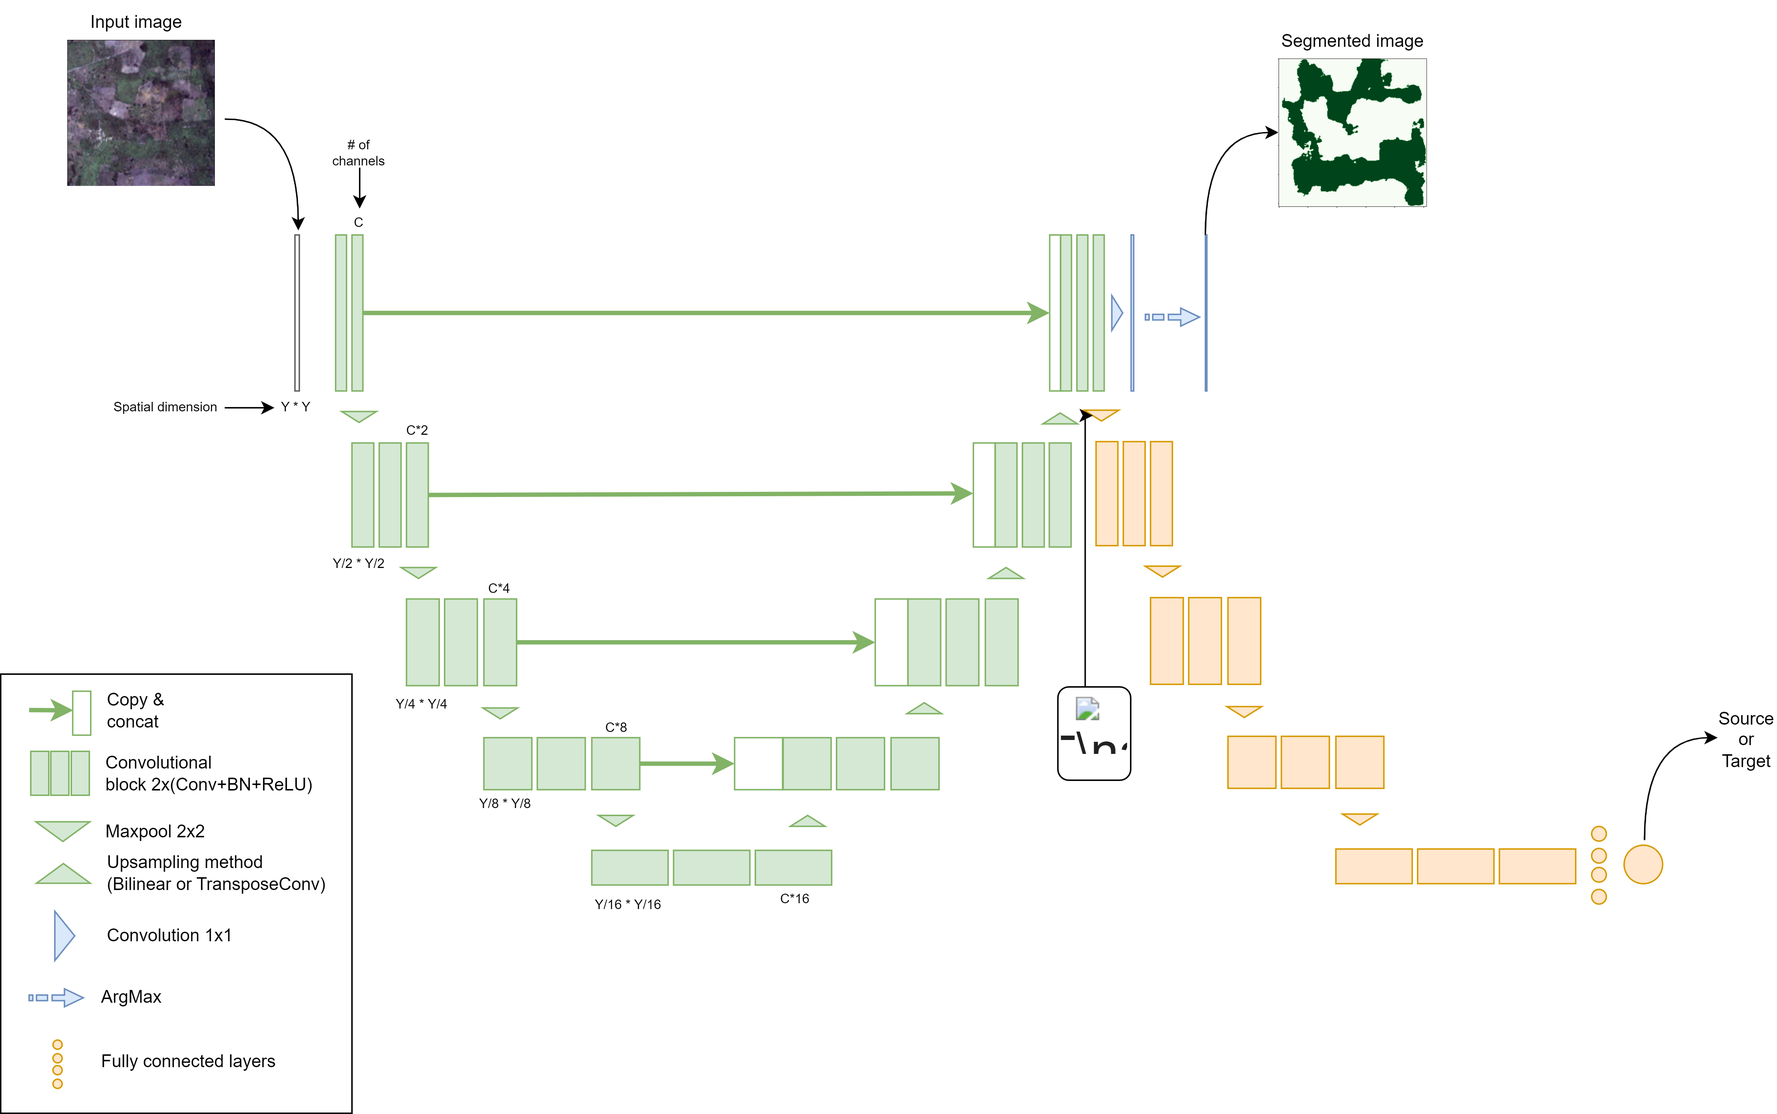
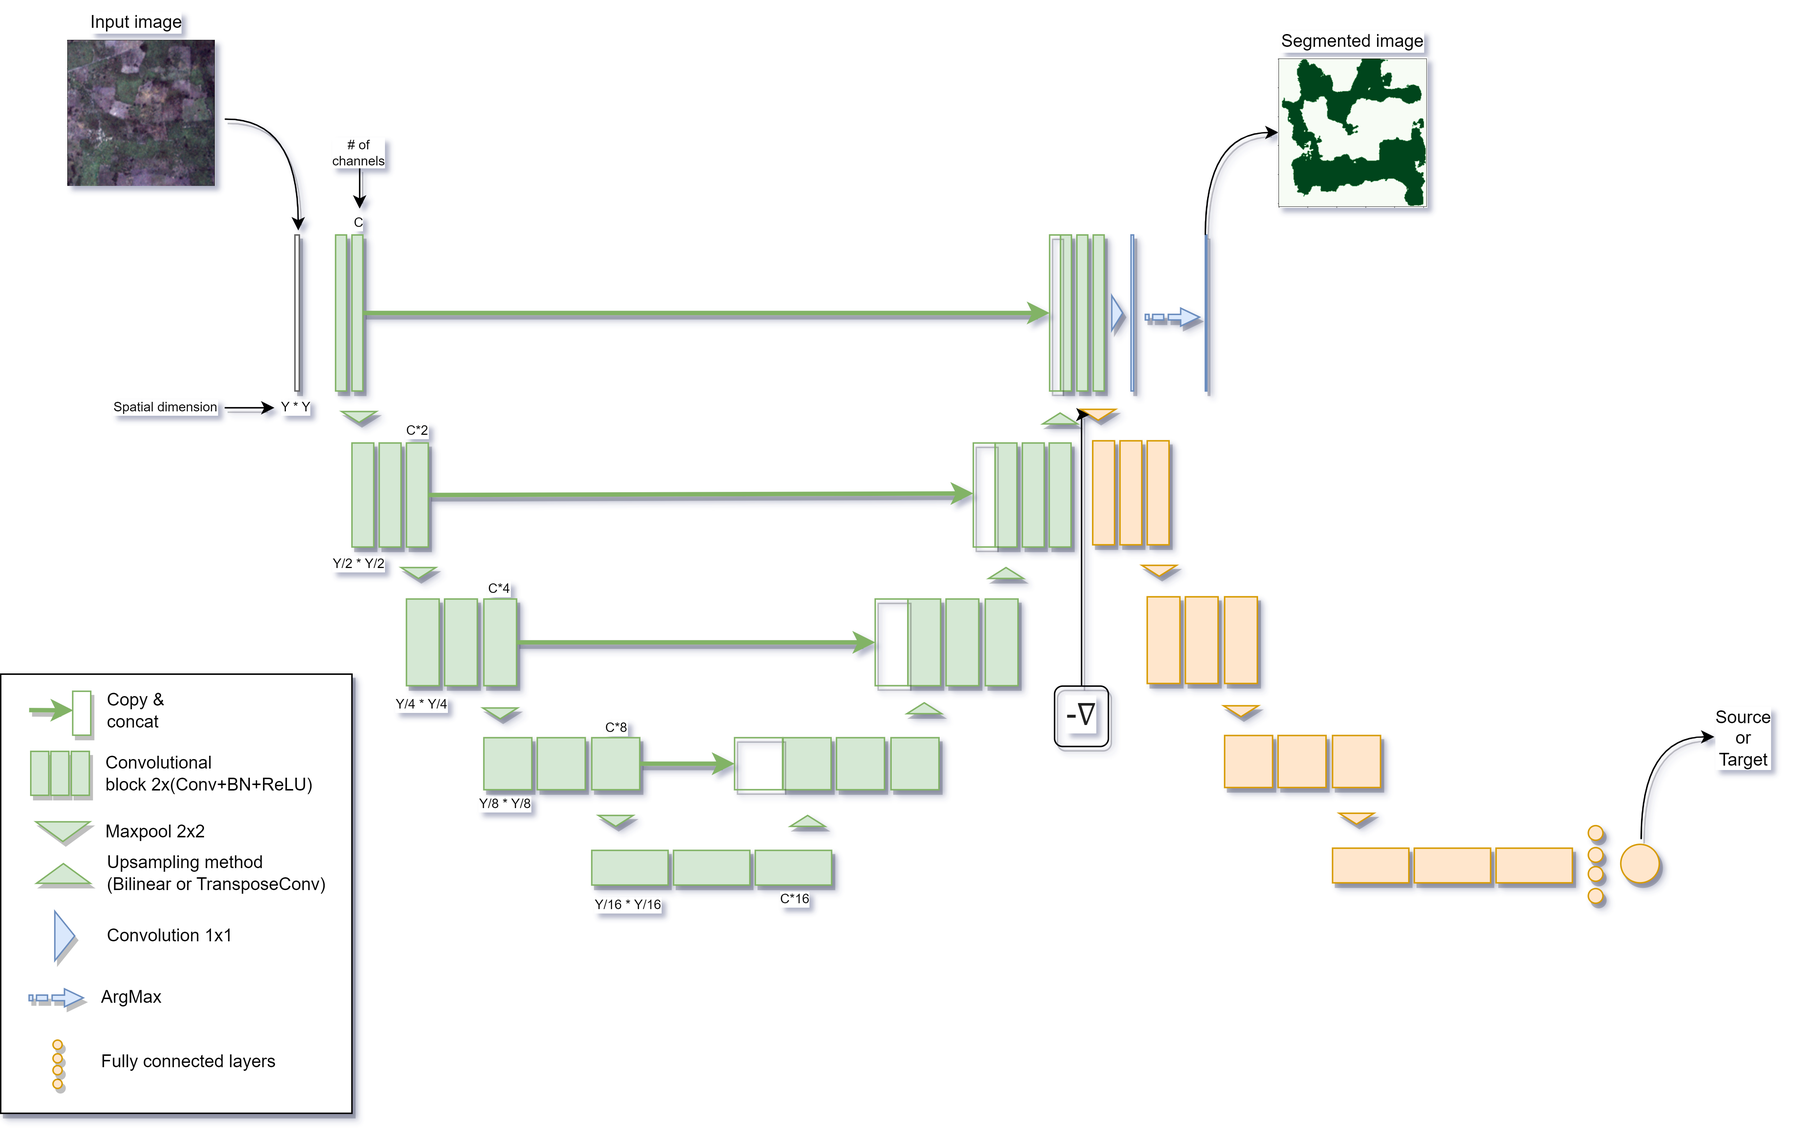
Updated docs

diff --git a/docs/Models/U_Net.md b/docs/Models/U_Net.md
@@ -10,7 +10,8 @@ And secondly build the models used for segmentation [U-Net](#unet) and domain ad
 
 ## Major blocks
 
-==ADD IMAGE OF UNET and UNET DANN dividing blocks==
+![Major blocks](/img/MajorBlocks.png)
+
 ### FE
 
 Class containing the layers considered for the extraction of features from the 2D images. 
@@ -24,9 +25,9 @@ The division of the U-Net was inspired by the implementation done by [brion et a
 - **self.n_channels:** (int) Number of channels \[bands\] on the images that will enter the network.
 - **self.starter:** (int) Number of feature maps obtained from the first double convolution performed. The number of feature maps obtained for every double convolution will be then calculated multiplying this value by $2ˆn$, where $n$ is the level in the U_net, starting from 0 in the upmost layer and 2 in the lowest layer.
 - **self.up_layer:** (int : \[0-4\]) Number indicating the layer in which the network is divided into Feature Extractor and Classifier.
-- **self.bilinear:** (Boolean) Boolean indicating the method for upsampling in the expanding path. ==Default== is True.
-- **self.attention:** (Boolean) Boolean to indicate if attention gates will be added on the upsampling step. ==Default== is False.
-- **self.resunet:** (Boolean) Boolean used to indicate if the double convolution will have a residual connection or not.==Default== is False.
+- **self.bilinear:** (Boolean) Boolean indicating the method for upsampling in the expanding path. *Default* is True.
+- **self.attention:** (Boolean) Boolean to indicate if attention gates will be added on the upsampling step. *Default* is False.
+- **self.resunet:** (Boolean) Boolean used to indicate if the double convolution will have a residual connection or not. *Default* is False.
 
 #### Methods
 
@@ -114,10 +115,10 @@ The division of the U-Net was inspired by the implementation done by [brion et a
 
 - **self.starter:** (int) Number of feature maps obtained from the first double convolution performed. The number of feature maps obtained for every double convolution will be then calculated multiplying this value by $2ˆn$, where $n$ is the level in the U_net, starting from 0 in the upmost layer and 2 in the lowest layer.
 - **self.up_layer:** (int : \[0-4\]) Number indicating the layer in which the network is divided into Feature Extractor and Classifier.
-- **self.bilinear:** (Boolean) Boolean indicating the method for upsampling in the expanding path. ==Default== is True.
-- **self.n_classes:** (int) Number of classes in which the images will be classified. ==Default== is 2.
-- **self.attention:** (Boolean) Boolean to indicate if attention gates will be added on the upsampling step. ==Default== is False.
-- **self.resunet:** (Boolean) Boolean used to indicate if the double convolution will have a residual connection or not.==Default== is False.
+- **self.bilinear:** (Boolean) Boolean indicating the method for upsampling in the expanding path. *Default* is True.
+- **self.n_classes:** (int) Number of classes in which the images will be classified. *Default* is 2.
+- **self.attention:** (Boolean) Boolean to indicate if attention gates will be added on the upsampling step. *Default* is False.
+- **self.resunet:** (Boolean) Boolean used to indicate if the double convolution will have a residual connection or not. *Default* is False.
 
 #### Methods
 
@@ -202,9 +203,9 @@ The discriminator first downsamples the features using the same class [Down](./B
 - **self.initial_features:** (int) Number of features that will go into the final fully connected layer.
 - **self.starter:** (int) Number of feature maps obtained from the first double convolution performed. The number of feature maps obtained for every double convolution will be then calculated multiplying this value by $2ˆn$, where $n$ is the level in the U_net, starting from 0 in the upmost layer and 2 in the lowest layer.
 - **self.up_layer:** (int : \[0-4\]) Number indicating the layer in which the network is divided into Feature Extractor and Classifier.
-- **self.bilinear:** (Boolean) Boolean indicating the method for upsampling in the expanding path. ==Default== is True.
-- **self.resunet:** (Boolean) Boolean used to indicate if the double convolution will have a residual connection or not.==Default== is False.
-- **self.grad_rev_w:** (float) Number with the learning weight of the discriminator head. ==Default== is 1.
+- **self.bilinear:** (Boolean) Boolean indicating the method for upsampling in the expanding path. *Default* is True.
+- **self.resunet:** (Boolean) Boolean used to indicate if the double convolution will have a residual connection or not. *Default* is False.
+- **self.grad_rev_w:** (float) Number with the learning weight of the discriminator head. *Default* is 1.
 
 #### Methods
 
@@ -269,17 +270,18 @@ class D(nn.Module):
 Class containing the layers used to create the custom UNet used to segment 2D images. An overview of the network can be seen [here](#overview). 
 
 #### Overview
-==IMAGE==
+
+![UnetDANN](/img/U_Net.png)
 
 #### Attributes
 
 - **self.n_channels:** (int) Number of channels \[bands\] on the images that will enter the network.
 - **self.n_classes:** (int) Number of classes in which the images will be classified.
-- **self.bilinear:** (Boolean) Boolean indicating the method for upsampling in the expanding path. ==Default== is True.
-- **self.starter:** (int) Number of feature maps obtained from the first double convolution performed. The number of feature maps obtained for every double convolution will be then calculated multiplying this value by $2ˆn$, where $n$ is the level in the U_net, starting from 0 in the upmost layer and 2 in the lowest layer. ==Default== is 8.
-- **self.up_layer:** (int : \[0-4\]) Number indicating the layer in which the network is divided into Feature Extractor and Classifier. ==Default== is 3.
-- **self.attention:** (Boolean) Boolean to indicate if attention gates will be added on the upsampling step. ==Default== is False.
-- **self.resunet:** (Boolean) Boolean used to indicate if the double convolution will have a residual connection or not.==Default== is False.
+- **self.bilinear:** (Boolean) Boolean indicating the method for upsampling in the expanding path. *Default* is True.
+- **self.starter:** (int) Number of feature maps obtained from the first double convolution performed. The number of feature maps obtained for every double convolution will be then calculated multiplying this value by $2ˆn$, where $n$ is the level in the U_net, starting from 0 in the upmost layer and 2 in the lowest layer. *Default* is 8.
+- **self.up_layer:** (int : \[0-4\]) Number indicating the layer in which the network is divided into Feature Extractor and Classifier. *Default* is 3.
+- **self.attention:** (Boolean) Boolean to indicate if attention gates will be added on the upsampling step. *Default* is False.
+- **self.resunet:** (Boolean) Boolean used to indicate if the double convolution will have a residual connection or not. *Default* is False.
 
 #### Methods
 
@@ -326,9 +328,11 @@ class UNet(nn.Module):
 
 ### UNetDANN
 
+Class containing the layers used to create the custom UNet-DANN network used to perform domain adaptation for sementing 2D images. This network uses the gradient reversal proposed by [Ganin et al. (2016)](https://jmlr.org/papers/volume17/15-239/15-239.pdf) on the [U-Net](#unet) semantic segmentation model.
+
 #### Overview
 
-![UnetDANN](/img/U_Net_DANN.jpg)
+![UnetDANN](/img/U_Net_DANN.png)
 
 #### Attributes 
 

diff --git a/docs/Training/Hyper_Parameter_Tuning.md b/docs/Training/Hyper_Parameter_Tuning.md
@@ -1,3 +1,6 @@
+---
+sidebar_position: 1
+---
 ## Brief description of the submodule
 
 In this submodule the functions used for the selection of hyper-parameters for the training of the [Networks implemented](../Models/U_Net#networks-implemented).
@@ -9,12 +12,12 @@ Function to execute the hyper-parameter tuning for the [UNet](../Models/U_Net#un
 It receives the possible values of the hyperparameters as lists and returns a dataframe with the results of each possible combination. 
 
 The metrics considered are:
-- **Validation mIOU:** Highest value of mIOU obtained during training.
+- **Validation F1-Score:** Highest value of validation F1-Score obtained during training.
 - **Training time:** Time spent on training.
 - **Training rho:** Spearman coefficient to check that the training accuracy is continuously increasing with the epochs.
 - **NO Learning:** Boolean indicating if accuracy did improve compared to the one calculated in epoch 0.
 
-The calculation of each of the metrics is done using **12 epochs** and a **Linear normalization** of the Cashew dataset. For more information of this dataset go [here](../Dataset/ReadyToTrain_DS).
+The calculation of each of the metrics is done using **20 epochs** and a **Linear normalization** of the Cashew dataset. For more information of this dataset go [here](../Dataset/ReadyToTrain_DS).
 
 ### Params
 - **dir:** (dir) Directory with the dataset to be used.
@@ -28,6 +31,8 @@ The calculation of each of the metrics is done using **12 epochs** and a **Linea
 - **decay:** (list) List with values of the decay rate of learning rate.
 - **atts:** (list) List with booleans for inclusion or not of Attention gates.
 - **res:** (list) List with booleans for inclusion or not of residual connections on the double convolutional blocks.
+- **tr_size:** (float: \[0-1\]) Amount of training set considered for HP tuning.
+- **val_size:** (float: \[0-1\]) Amount of validation set considered for HP tuning.
 ### Outputs
 
 - **HP_values:** (pandas.DataFrame) Dataframe with the results of each iteration of the hyperparameter tuning.
@@ -64,6 +69,8 @@ def HP_Tuning(dir, BS, LR, STCh, MU, Bi, gamma, VI, decay, atts, res, tr_size = 
             - decay: decay rate of learning rate.
             - atts: Inclusion or not of Attention gates.
             - res: Inclusion or not of residual connections on convolutional blocks.
+            - tr_size: Amount of training set considered.
+            - val_size: Amount of validation et cosidered.
             
         Output:
             - HP_values: (pandas.DataFrame) Dataframe with the results of each iteration of the hyperparameter tuning.
@@ -112,7 +119,7 @@ Function to execute the hyper-parameter tuning for the [UNet](../Models/U_Net#un
 
 It receives the possible values of the hyperparameters as lists and returns a dataframe with the results of each possible combination. 
 
-The metrics considered are:
+The metrics used are:
 - **Validation mIOU:** Highest value of mIOU obtained during training.
 - **Training time:** Time spent on training.
 - **Training rho:** Spearman coefficient to check that the training accuracy is continuously increasing with the epochs.
@@ -131,7 +138,8 @@ The calculation of each of the metrics is done using **15 epochs**.
 - **decay:** (list) List with values of the decay rate of learning rate.
 - **atts:** (list) List with booleans for inclusion or not of Attention gates.
 - **res:** (list) List with booleans for inclusion or not of residual connections on the double convolutional blocks
-
+- **tr_size:** (float: \[0-1\]) Amount of training set considered for HP tuning. *Default* is 0.15.
+- **val_size:** (float: \[0-1\]) Amount of validation set considered for HP tuning. *Default* is 0.75.
 ### Outputs
 
 - **HP_values:** (pandas.DataFrame) Dataframe with the results of each iteration of the hyperparameter tuning.

diff --git a/docs/Models/BuildingBlocks.md b/docs/Models/BuildingBlocks.md
@@ -23,8 +23,8 @@ Moreover, an option to include residual connections in the double convolutions i
 
 - **self.in_channels:** (int) Number of channels that the module receives.
 - **self.out_channels:** (int) Number of channels that will be obtained with the two convolutions performed.
-- **self.mid_channels:** (int) If specified, this will be the number of channels calculated by the first convolution. ==Default== is None.
-- **self.resunet:** (Boolean) Boolean used to indicate if the double convolution will have a residual connection or not.==Default== is False.
+- **self.mid_channels:** (int) If specified, this will be the number of channels calculated by the first convolution. *Default* is None.
+- **self.resunet:** (Boolean) Boolean used to indicate if the double convolution will have a residual connection or not. *Default* is False.
 
 
 - **self.double_conv** (torch.nn.Sequential) Sequential layer comprising the convolutions, batch normalizations and ReLU activation functions.
@@ -86,7 +86,7 @@ It inherits the attributes and methods of `torch.nn.Module`.
 
 - **self.in_channels:** (int) Number of channels that the module receives.
 - **self.out_channels:** (int) Number of channels that will be obtained with the two convolutions performed.
-- **self.resunet:** (Boolean) Boolean used to indicate if the double convolution will have a residual connection or not.==Default== is False.
+- **self.resunet:** (Boolean) Boolean used to indicate if the double convolution will have a residual connection or not. *Default* is False.
 
 - **self.maxpool_conv:** (torch.nn.Sequential) Sequential layer comprising the 2D maxpooling and the posterior double convolutions performed.
 
@@ -129,9 +129,9 @@ This class inherits the attributes and methods of `torch.nn.Module`.
 
 - **self.in_channels:** (int) Number of channels that the module receives.
 - **self.out_channels:** (int) Number of channels that will be obtained with the two convolutions performed.
-- **self.bilinear:** (Boolean) Boolean to indicate if the upsampling method will be either bilinear interpolation or transpose 2D convolutions. ==Default== is False.
-- **self.attention:** (Boolean) Boolean to indicate if attention gates will be added on the upsampling step. ==Default== is False.
-- **self.resunet:** (Boolean) Boolean used to indicate if the double convolution will have a residual connection or not.==Default== is False.
+- **self.bilinear:** (Boolean) Boolean to indicate if the upsampling method will be either bilinear interpolation or transpose 2D convolutions. *Default* is False.
+- **self.attention:** (Boolean) Boolean to indicate if attention gates will be added on the upsampling step. *Default* is False.
+- **self.resunet:** (Boolean) Boolean used to indicate if the double convolution will have a residual connection or not. *Default* is False.
 
 ### Methods
 

diff --git a/docs/Data_preprocessing.md b/docs/Data_preprocessing.md
@@ -10,10 +10,39 @@ sidebar_position: 2
 
  ![labels](/img/label_density.png)
  
-The data used for reference lables of Cashew crops in Ivory Coast and Tanzania can be downloaded from [here](https://www.dropbox.com/scl/fo/y8rp4ne0q8vfo5wbr1v4x/h?rlkey=vtyhx69b3jcckpxcnuxt2grh7&dl=0).
+The data used for reference labels of Cashew crops in Ivory Coast and Tanzania can be downloaded from [here](https://www.dropbox.com/scl/fo/y8rp4ne0q8vfo5wbr1v4x/h?rlkey=vtyhx69b3jcckpxcnuxt2grh7&dl=0).
 
 ## Input images
 
 The datasets used as input data for the training of the deep learning algorithms will mainly consist of of images from Planet Norway’s International Climate and Forest Initiative ([NICFI](https://www.planet.com/nicfi/?gad_source=1&gclid=CjwKCAiAk9itBhASEiwA1my_67JOFQ8L4DPicJ47w-b_bGBjLBM1SymMjL91UsJVmB5jSRwKsoedZxoCb2sQAvD_BwE)). These images were downloaded using google earth engine (See [here](https://developers.google.com/earth-engine/datasets/catalog/projects_planet-nicfi_assets_basemaps_africa) the image collection).
 
 For a detailed way to download patches from google earth engine go to [DataGathering](./Dataset/DataGathering).
+## Get ready 
+
+### Download the pre-processed datasets
+
+If you want to access the raw data and pre-process it yourself click [here](./Dataset/DataGathering).
+
+#### Directly through Dropbox
+
+Click this [link](https://www.dropbox.com/scl/fo/ozyb8j2qx21secw2scocq/h?rlkey=1gyptmas8bnxdhmc0j7toi17r&dl=0) to access the data and download it directly to your local machine.
+
+#### Using bash
+
+See [DS_Download.sh](https://github.com/mdominguezd/Thesis_model_training/blob/main/DS_Download.sh)
+
+```bash
+#!/bin/bash
+
+# Download three splits for Tanzania
+wget -O Tanzania1.zip -q --show-progress https://www.dropbox.com/scl/fi/ueafajskwc5qckynwl7af/PlanetTanzania_18_patch256_split1.zip?rlkey=mf68gq19rs7qyj03rj6tx5250&dl=0 
+wget -O Tanzania2.zip -q --show-progress https://www.dropbox.com/scl/fi/pj7su9q8f422k06zy6oyf/PlanetTanzania_18_patch256_split2.zip?rlkey=8xw9al4h4i46h9c9b3azqa8e4&dl=0 
+wget -O Tanzania3.zip -q --show-progress https://www.dropbox.com/scl/fi/mhipwkf42vl8dluo4d6uu/PlanetTanzania_18_patch256_split3.zip?rlkey=2jtyw1n4u9wjibn3jnvduo717&dl=0 
+
+# Download three splits for Ivory Coast
+wget -O IvoryCoast1.zip -q --show-progress https://www.dropbox.com/s/mn53y84ahj4y0vj/PlanetIvoryCoast_18_patch256_split1.zip?dl=0
+wget -O IvoryCoast2.zip -q --show-progress https://www.dropbox.com/scl/fi/6pxnc69et16gncsdd11ys/PlanetIvoryCoast_18_patch256_split2.zip?rlkey=xs0ae6o6nnpelkdi5gthq0x8v&dl=0
+wget -O IvoryCoast3.zip -q --show-progress https://www.dropbox.com/scl/fi/37ool0ctxlc43quovnvs7/PlanetIvoryCoast_18_patch256_split3.zip?rlkey=i8fs18b99vh0wmdvtj25gyhg5&dl=0
+```
+
+

diff --git a/docs/intro.md b/docs/intro.md
@@ -35,31 +35,3 @@ In this thesis, domain adaptation techniques were implemented to semantic segmen
 * How much does the domain shift between source and target affect the accuracy of a cashew crop mapping model trained only with source data and applied in the target domain?
 * To what extent do adversarial domain adaptation methods impact the accuracy and the generalization capability of semantic segmentation models used for cashew crop mapping?
 
-## Get ready 
-
-### Download the pre-processed datasets
-
-If you want to access the raw data and pre-process it yourself click [here](./Dataset/DataGathering).
-
-#### Directly through Dropbox
-
-Click this [link](https://www.dropbox.com/scl/fo/ozyb8j2qx21secw2scocq/h?rlkey=1gyptmas8bnxdhmc0j7toi17r&dl=0) to access the data and download it directly to your local machine.
-
-#### Using bash
-
-See [DS_Download.sh](https://github.com/mdominguezd/Thesis_model_training/blob/main/DS_Download.sh)
-
-```bash
-#!/bin/bash
-
-# Download three splits for Tanzania
-wget -O Tanzania1.zip -q --show-progress https://www.dropbox.com/scl/fi/ueafajskwc5qckynwl7af/PlanetTanzania_18_patch256_split1.zip?rlkey=mf68gq19rs7qyj03rj6tx5250&dl=0 
-wget -O Tanzania2.zip -q --show-progress https://www.dropbox.com/scl/fi/pj7su9q8f422k06zy6oyf/PlanetTanzania_18_patch256_split2.zip?rlkey=8xw9al4h4i46h9c9b3azqa8e4&dl=0 
-wget -O Tanzania3.zip -q --show-progress https://www.dropbox.com/scl/fi/mhipwkf42vl8dluo4d6uu/PlanetTanzania_18_patch256_split3.zip?rlkey=2jtyw1n4u9wjibn3jnvduo717&dl=0 
-
-# Download three splits for Ivory Coast
-wget -O IvoryCoast1.zip -q --show-progress https://www.dropbox.com/s/mn53y84ahj4y0vj/PlanetIvoryCoast_18_patch256_split1.zip?dl=0
-wget -O IvoryCoast2.zip -q --show-progress https://www.dropbox.com/scl/fi/6pxnc69et16gncsdd11ys/PlanetIvoryCoast_18_patch256_split2.zip?rlkey=xs0ae6o6nnpelkdi5gthq0x8v&dl=0
-wget -O IvoryCoast3.zip -q --show-progress https://www.dropbox.com/scl/fi/37ool0ctxlc43quovnvs7/PlanetIvoryCoast_18_patch256_split3.zip?rlkey=i8fs18b99vh0wmdvtj25gyhg5&dl=0
-```
-

diff --git a/docs/Dataset/ReadyToTrain_DS.md b/docs/Dataset/ReadyToTrain_DS.md
@@ -8,12 +8,12 @@ Function to calculate 0.01 and 0.99 percentiles of the bands of planet images. T
 
 ### Params
 
-* **img_folder:** *(list)* The name of the folder with the images.
-* **samples:** *(integer)* The number of images to take to calculate these percentiles, for computing reasons not all images are considered.
+* **img_folder:** (list) The name of the folder with the images.
+* **samples:** (integer) The number of images to take to calculate these percentiles, for computing reasons not all images are considered.
 
 ### Outputs
 
-* **vals:** *(numpy.ndarray)* The mean 1% and 99% quantiles for the images analysed.
+* **vals:** (numpy.ndarray) The mean 1% and 99% quantiles for the images analysed.
 
 ### Dependencies used
 
@@ -228,16 +228,22 @@ The normalization of the images in the dataset was performed using a linear norm
 
 The equation used for the normalization is presented below:
 
-$$ IMG_{normalized} = \frac{IMG - Perc_{1\%}}{Perc_{99\%} - Perc_{1\%}} $$
+$$
+IMG_{normalized} = \frac{IMG - Perc_{1\%}}{Perc_{99\%} - Perc_{1\%}}
+$$
 #### Vegetation indices
 
 Two additional channels can be added to the tensor which are the Normalized Difference Vegetation Index **(NDVI)** 
 
-$$NDVI = \frac{NIR - R}{NIR + R}$$
+$$
+NDVI = \frac{NIR - R}{NIR + R}
+$$
 
 and the Normalized Difference Water Index **(NDWI)**.
 
-$$ NDWI = \frac{G - NIR}{G+NIR} $$
+$$ 
+NDWI = \frac{G - NIR}{G+NIR}
+$$
 ### Attributes
 
 - **self.img_folder** (str) Name of the folder in which the images are stored.

diff --git a/docs/Training/Train_DomainOnly.md b/docs/Training/Train_DomainOnly.md
@@ -1,3 +1,7 @@
+---
+sidebar_position: 2
+---
+
 ## Brief description of the submodule
 
 In this submodule, all of the functions used for training the domain-only models are described in detail.
@@ -10,7 +14,7 @@ Function used to evaluate the segmentation performance of a specified network. I
 - **net:** (torch.nn.Module) Network class used to get the segmentation predictions.
 - **validate_loader:**  (torch.nn.DataLoader) Data loader of which the mean loss and accuracy will be calculated.
 - **loss_function:** (torch.nn.Module) Loss function used during the training of the network.
-- **accu_function:** (torch.nn.Module==?==) Function to calculate the mean accuracy of the network on validate_loader. ==Default== is BinaryF1Score()
+- **accu_function:** (torchmetrics.classification) Function to calculate the mean accuracy of the network on validate_loader. *Default* is BinaryF1Score()
 
 ### Outputs
 

diff --git a/docs/Training/Train_DANN.md b/docs/Training/Train_DANN.md
@@ -1,3 +1,7 @@
+---
+sidebar_position: 3
+---
+
 ## Brief description of the submodule
 
 ## Last meeting
